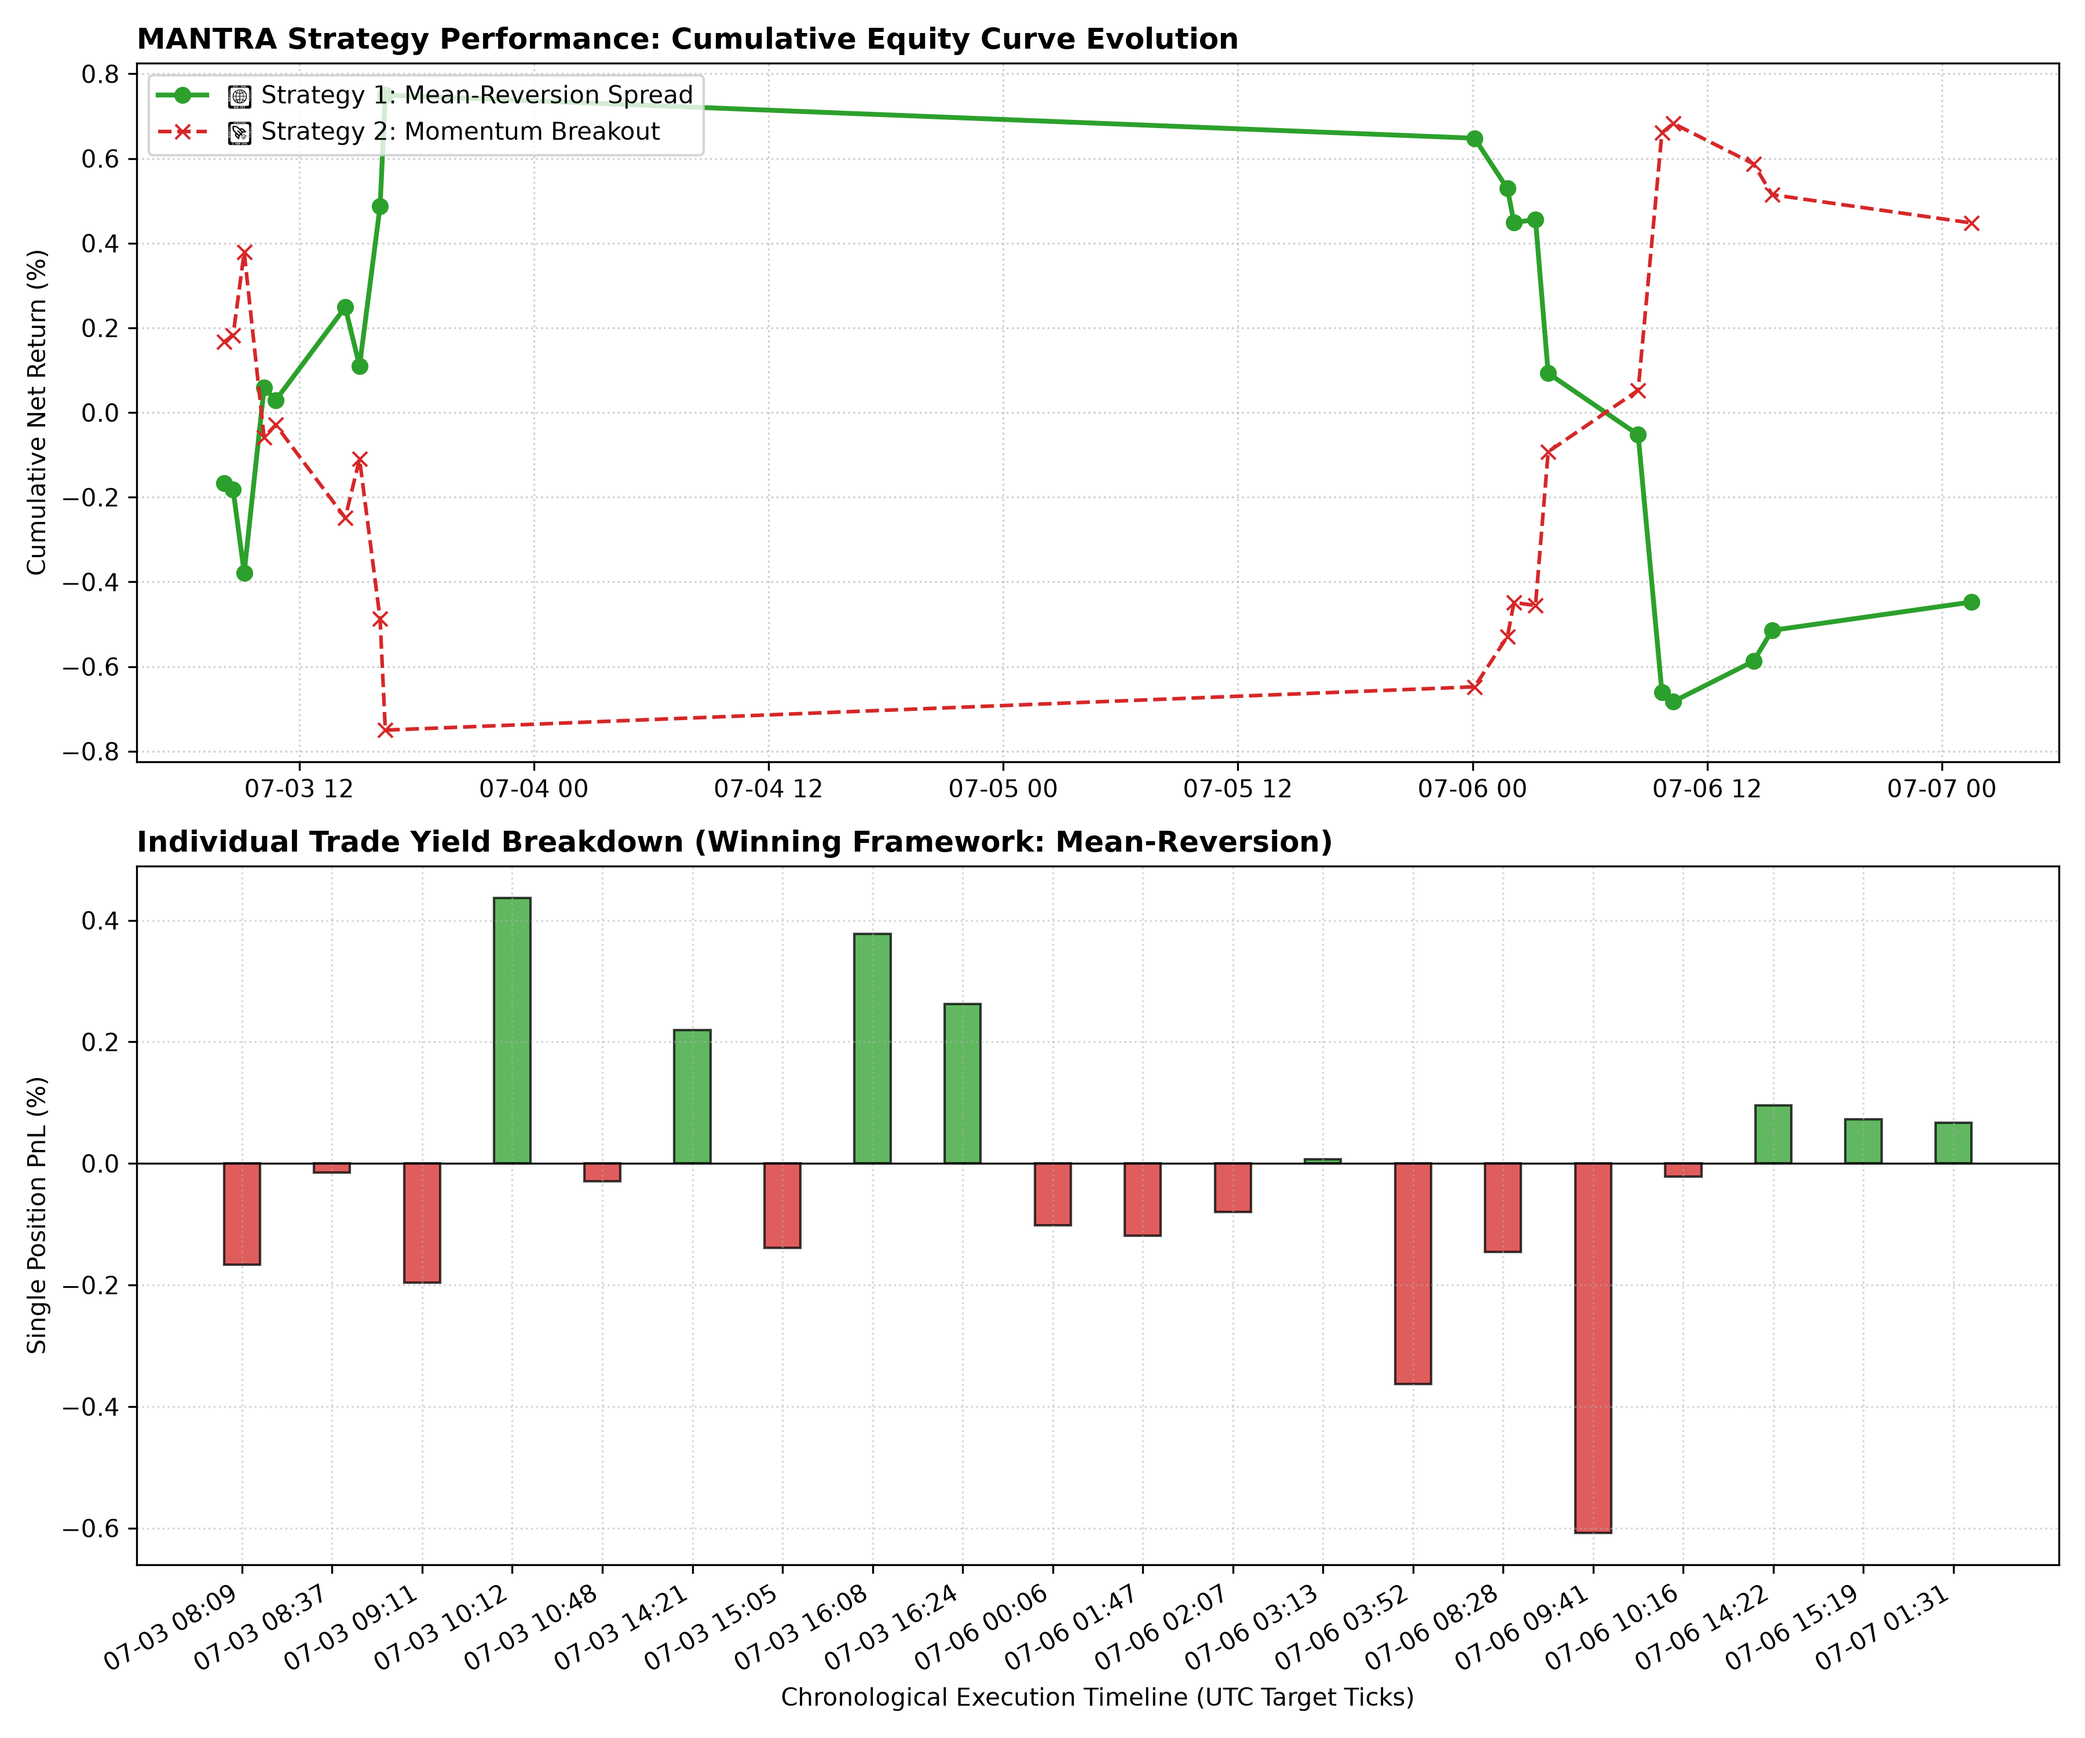
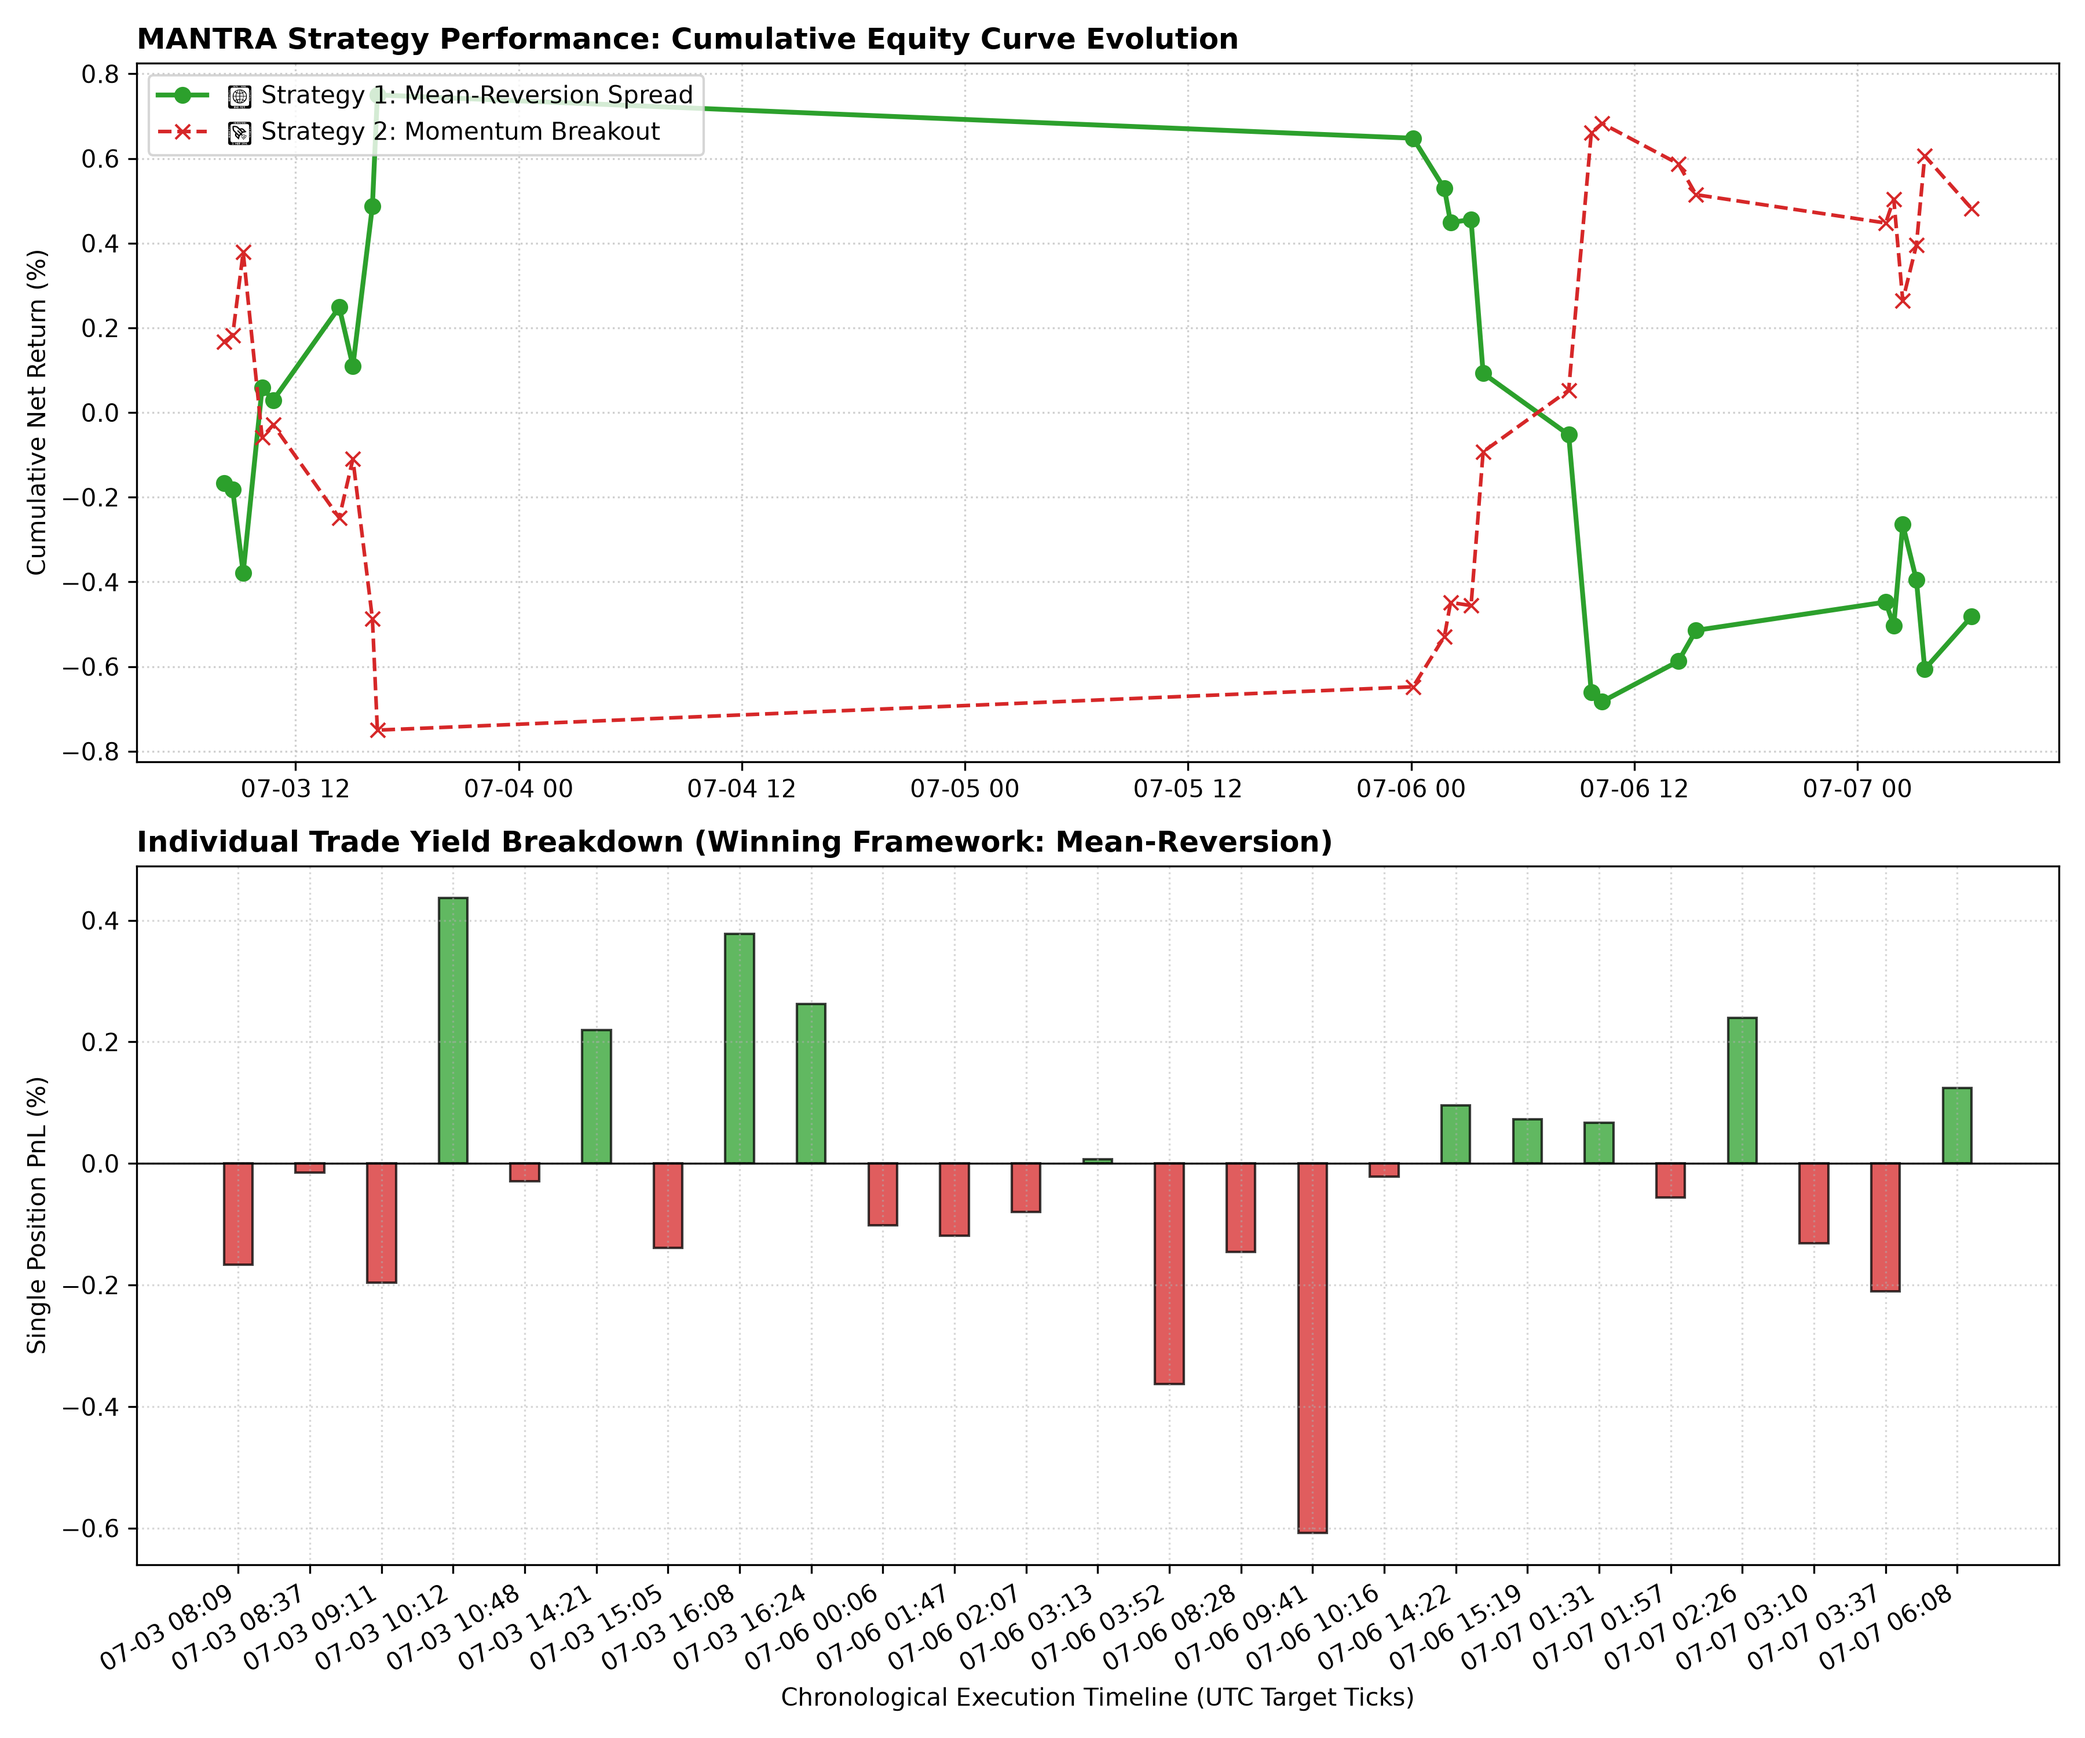
📊 Quantitative Strategy Sync: Backtest results repository updated [Skip CI]

diff --git a/data/backtest_results/backtest_performance.md b/data/backtest_results/backtest_performance.md
@@ -3,23 +3,23 @@
 This automated research node evaluates the directionality of asset prices immediately following a detected rolling anomaly cluster.
     
 ### 🔬 Pilot Parameters
-* **Captured Anomaly Signals (Post-Cooldown):** 20
+* **Captured Anomaly Signals (Post-Cooldown):** 25
 * **Position Holding Horizon:** 15 Minutes
 * **Data Scale Basis:** Standard Closing Mid-Prices (Proof of Concept)
 
 ### 📦 Asset Class Exposure (What was traded?)
 * **🇺🇸 US500 (S&P 500 Index):** 0 trades executed
-* **👑 GOLD Spot:** 3 trades executed
-* **🛢 OIL_CRUDE Spot:** 17 trades executed
+* **👑 GOLD Spot:** 7 trades executed
+* **🛢 OIL_CRUDE Spot:** 18 trades executed
     
 ### 📈 Directional Leaderboard
 | Directional Strategy | Total Simulated PnL (%) | Baseline Status |
 | :--- | :--- | :--- |
-| **🔄 Strategy 1: Mean-Reversion Spread** | -0.4476% | 🔴 Negative Horizon |
-| **🚀 Strategy 2: Momentum Breakout** | +0.4476% | 🟢 Positive Horizon |
+| **🔄 Strategy 1: Mean-Reversion Spread** | -0.4818% | 🔴 Negative Horizon |
+| **🚀 Strategy 2: Momentum Breakout** | +0.4818% | 🟢 Positive Horizon |
     
 ### 🏁 Research Verdict
-> **MARKET CHARACTERISTIC:** Following an isolation shock, the asset pricing registry historically favors the **Momentum Breakout** framework (Gross Return: +0.448%). *Note: This baseline pilot model excludes transactional spreads and execution slippage.*
+> **MARKET CHARACTERISTIC:** Following an isolation shock, the asset pricing registry historically favors the **Momentum Breakout** framework (Gross Return: +0.482%). *Note: This baseline pilot model excludes transactional spreads and execution slippage.*
 
 ---
 
